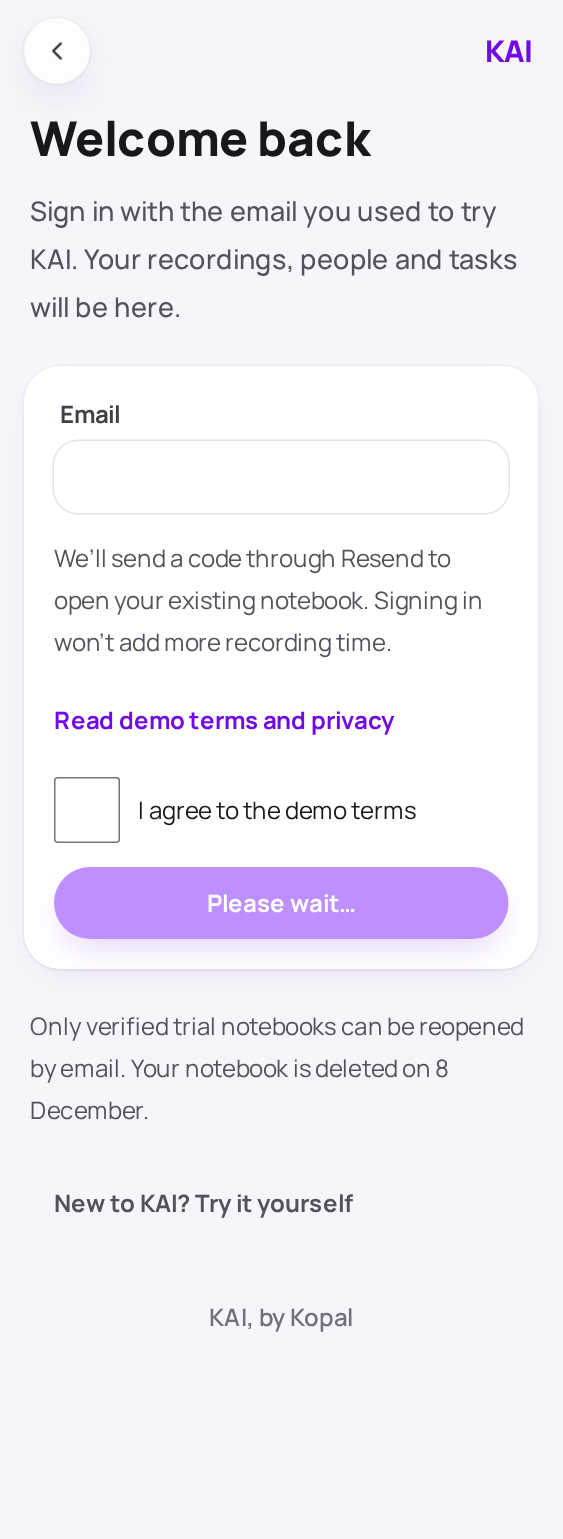
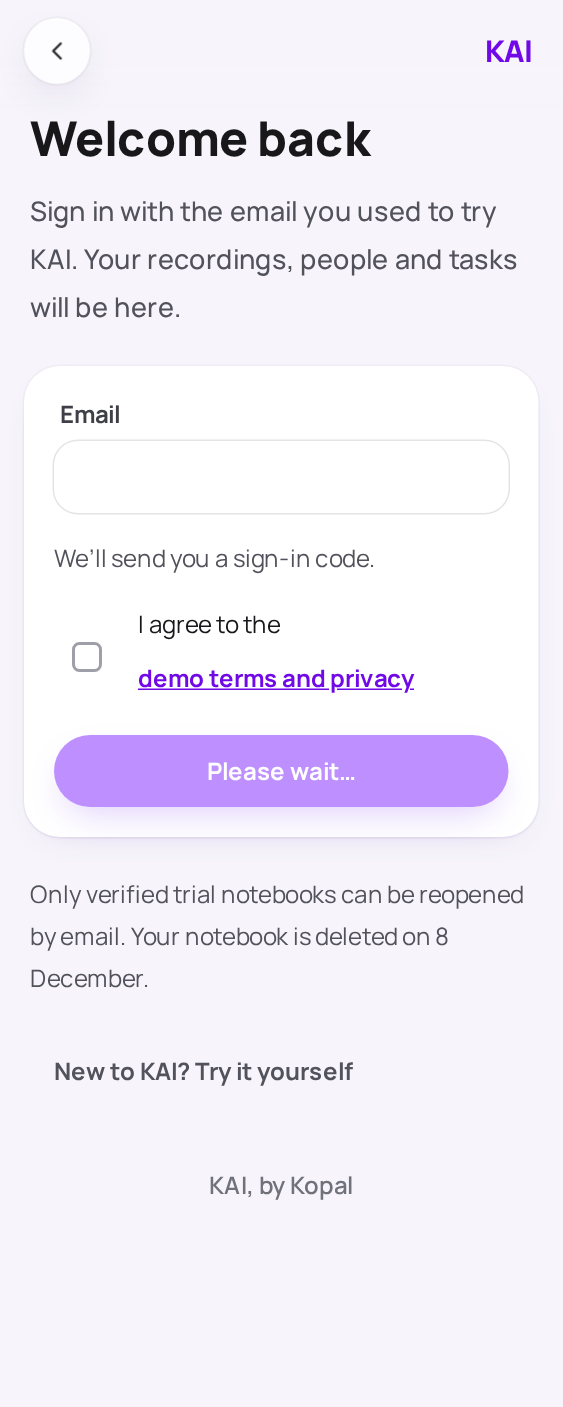
Simplify sign-in copy and agreement controls

diff --git a/src/look/screens/Login.tsx b/src/look/screens/Login.tsx
@@ -7,14 +7,13 @@ export function Login({busy,error,codeSent,signedIn,recoverable,onSubmit,onVerif
   <Card className="space-y-4 p-5">
    {signedIn ? <>
     <Button variant="primary" wide href="/home">Keep using this notebook</Button>
-    {recoverable===false && <><Notice>This invitation notebook has no verified email. Signing out will lose this browser’s access.</Notice><label className="flex items-center gap-3 text-base/7"><input type="checkbox" className="size-11 shrink-0 accent-violet-600" checked={leave} onChange={e=>setLeave(e.target.checked)}/>I’m ready to leave this notebook</label></>}
+    {recoverable===false && <><Notice>This invitation notebook has no verified email. Signing out will lose this browser’s access.</Notice><label className="flex items-center gap-3 text-base/7"><input type="checkbox" className="login-check size-11 shrink-0" checked={leave} onChange={e=>setLeave(e.target.checked)}/>I’m ready to leave this notebook</label></>}
     <Button variant="quiet" wide disabled={busy || recoverable===undefined || (!recoverable && !leave)} onClick={onSignOut}>{busy?'Signing out…':'Switch notebooks'}</Button>
    </> : <form className="space-y-4" onSubmit={e=>{e.preventDefault();if(codeSent)onVerify(code);else if(agreed)onSubmit(email)}}>
     {codeSent ? <Field label="Sign-in code" id="login-code" type="password" inputMode="numeric" autoComplete="one-time-code" pattern="[0-9]{6}" minLength={6} maxLength={6} required value={code} onChange={e=>setCode(e.target.value)}/> : <>
      <Field label="Email" id="login-email" type="email" autoComplete="email" required maxLength={254} value={email} onChange={e=>setEmail(e.target.value)}/>
-     <p className="text-base/7 text-zinc-600">We’ll send a code through Resend to open your existing notebook. Signing in won’t add more recording time.</p>
-     <a href="/terms" target="_blank" rel="noopener" className={`${FOCUS} inline-flex min-h-11 items-center text-base font-bold text-violet-700`}>Read demo terms and privacy</a>
-     <label className="flex items-center gap-3 text-base/7"><input type="checkbox" required className="size-11 shrink-0 accent-violet-600" checked={agreed} onChange={e=>setAgreed(e.target.checked)}/>I agree to the demo terms</label>
+     <p className="text-base/7 text-zinc-600">We’ll send you a sign-in code.</p>
+     <label className="flex items-center gap-3 text-base/7"><input type="checkbox" required className="login-check size-11 shrink-0" checked={agreed} onChange={e=>setAgreed(e.target.checked)}/><span>I agree to the <a href="/terms" target="_blank" rel="noopener" className={`${FOCUS} inline-flex min-h-11 items-center font-bold text-violet-700 underline`}>demo terms and privacy</a></span></label>
     </>}
     <Button variant="primary" wide type="submit" disabled={busy || (!codeSent && !agreed)}>{busy?'Please wait…':codeSent?'Sign in and open notebook':'Send sign-in code'}</Button>
     {codeSent && <Button variant="quiet" wide disabled={busy} onClick={onResend}>Send another code</Button>}

diff --git a/src/look/kai.css b/src/look/kai.css
@@ -62,3 +62,11 @@ mark {
 @media (prefers-reduced-motion: reduce) {
   *, *::before, *::after { animation: none !important; transition: none !important; }
 }
+
+/* A compact check inside a full-size touch target. */
+.login-check { appearance: none; cursor: pointer; background: transparent; display: grid; place-content: center; }
+.login-check::before { content: ''; width: 20px; height: 20px; border: 2px solid var(--color-zinc-400); border-radius: 5px; background: white; }
+.login-check:checked::before { background: var(--color-violet-600); border-color: var(--color-violet-600); }
+.login-check:checked::after { content: ''; position: absolute; width: 6px; height: 11px; border: solid white; border-width: 0 2px 2px 0; left: 19px; top: 15px; transform: rotate(45deg); }
+.login-check { position: relative; }
+.login-check:focus-visible { outline: 2px solid var(--color-violet-600); outline-offset: 2px; border-radius: 8px; }

diff --git a/design/README.md b/design/README.md
@@ -174,3 +174,5 @@ The trial now includes 30 minutes total; files stay at 10 MB and must be under 3
 Demo imports accept one recording at a time. The Files picker, upload guidance and terms show the single-file limit; recording types and the existing queue are unchanged.
 
 Email sign-in has initial, code, busy, error and explicit notebook-switch states. Connections includes browser sign-out and confirmation states, including the invitation warning. The same notebook reopens with a fresh verified email code; signing in adds no trial time.
+
+Sign-in keeps its email explanation short. The agreement includes its terms/privacy link in the label; its 20 px check retains a 44 px touch target on phones and desktop.
